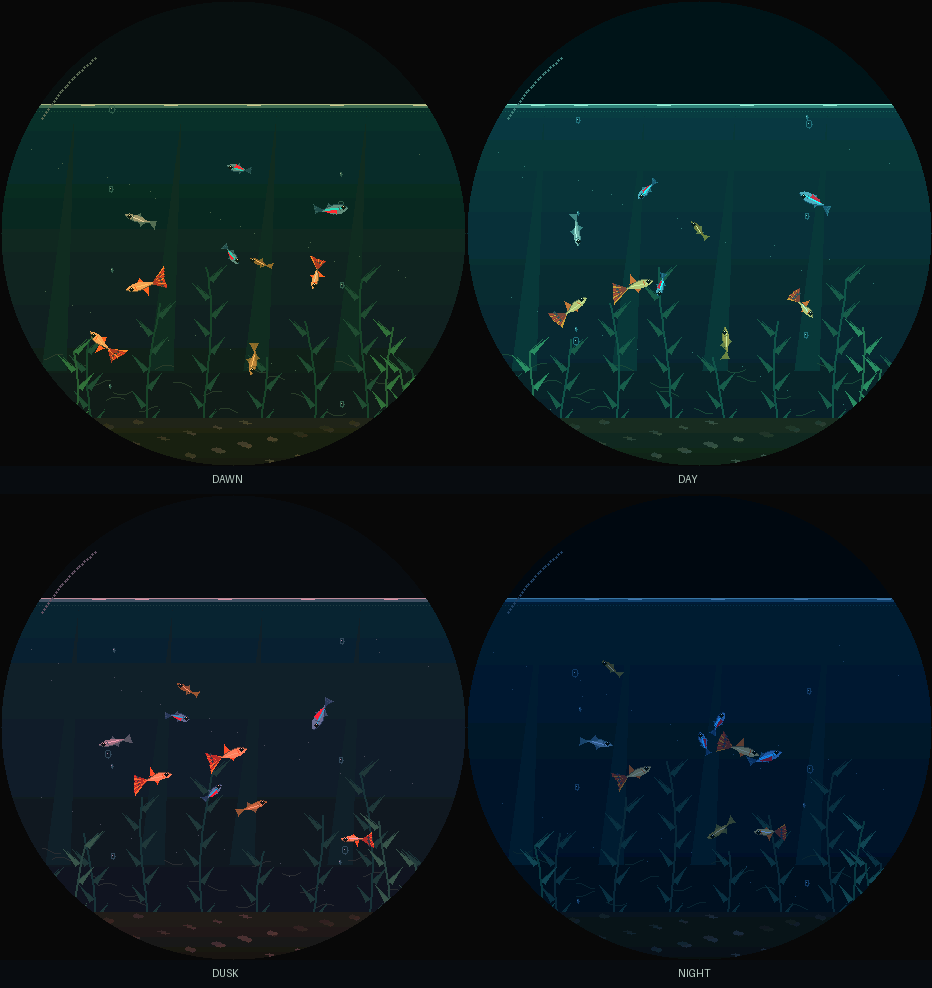
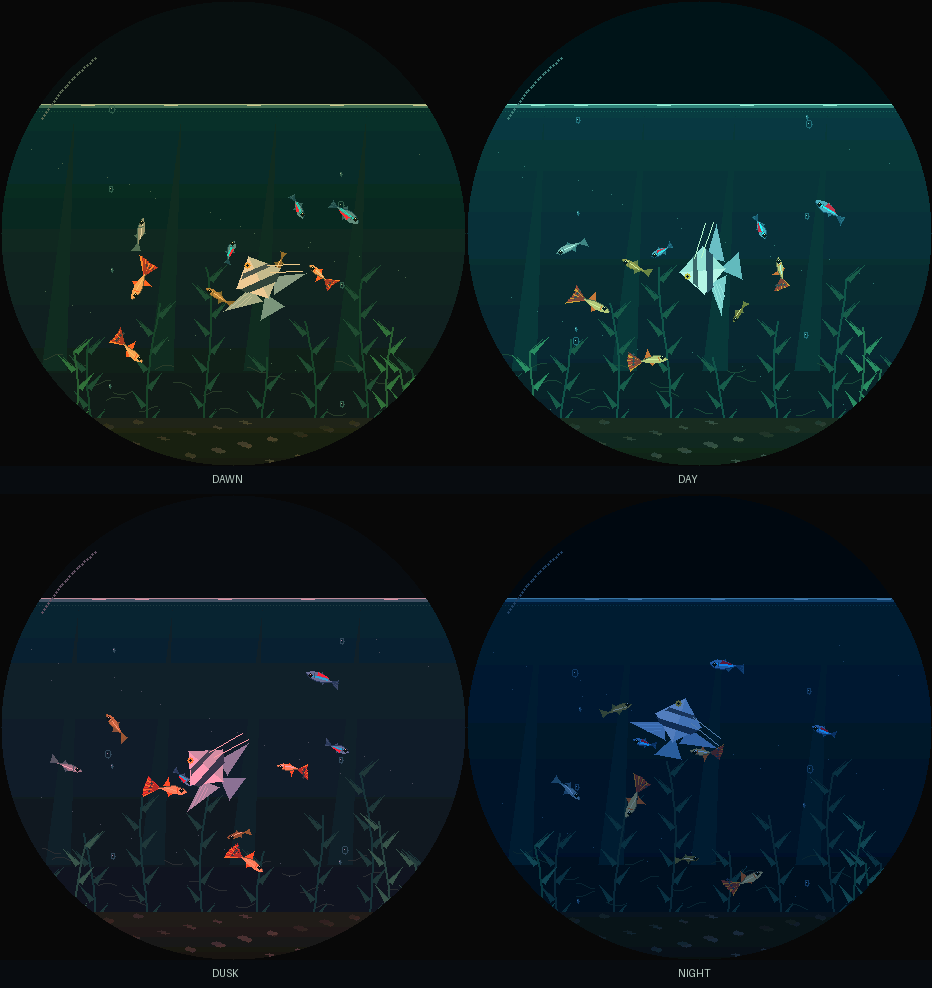
Add one larger angelfish as an aquarium centerpiece

diff --git a/src/World.h b/src/World.h
@@ -6,11 +6,12 @@
 namespace aquarium {
 constexpr float kPi = 3.14159265359f;
 inline float clamp(float v, float lo, float hi) { return std::max(lo, std::min(v, hi)); }
-enum class Species : uint8_t { Medaka, NeonTetra, Guppy };
+enum class Species : uint8_t { Medaka, NeonTetra, Guppy, Angelfish };
 struct SwimStyle { float cruise, turn, cadence; };
 inline SwimStyle swimStyle(Species s) {
   switch(s) {
     case Species::NeonTetra: return {49,3.2f,1.25f};
+    case Species::Angelfish: return {25,1.3f,.55f};
     case Species::Guppy: return {34,1.9f,.72f};
     default: return {42,2.5f,1};
   }
@@ -20,7 +21,7 @@ struct Bubble { float x=0, y=0, radius=2, pop=0; };
 struct Food { float x=0, y=0, life=0; bool wet=false; };
 class World {
 public:
-  static constexpr int N = 65, COUNT = 9, FOOD_MAX = 24;
+  static constexpr int N = 65, COUNT = 10, FOOD_MAX = 24;
   float wave[N]{}, velocity[N]{}, time = 0, tilt = 0, current = 0, alarm = 0;
   float gx = 0, gy = 1, gz = 0, activity = 0;
   float rollRate=0, pitchRate=0, yawRate=0, rotationalKick=0;
@@ -41,7 +42,7 @@ public:
     for(int c=0;c<3;++c) tint[c]=colors[a][c]*(1-t)+colors[b][c]*t;
   }
   unsigned eaten=0;
-  unsigned eatenBySpecies[3]{};
+  unsigned eatenBySpecies[4]{};
   float feedCooldown=0;
   int foodCount() const { int n=0; for(const auto &p:food) if(p.life>0) ++n; return n; }
   void feed(float x) {
@@ -59,11 +60,13 @@ public:
     for(int i=0;i<8;++i) { bubbles[i].x=i%2?342:112;bubbles[i].y=155+i*32;bubbles[i].radius=1+i%3; }
     int index=0;
     for (auto &f : fish) {
-      f.species=static_cast<Species>(index++%3);
+      f.species=index==9?Species::Angelfish:static_cast<Species>(index%3);
+      ++index;
       f.roamTime=index*.43f;
       f.x = 90 + random()*280; f.y = 155 + random()*210;
       f.heading = random()*2*kPi; f.vx = std::cos(f.heading)*20; f.vy = std::sin(f.heading)*8;
       f.phase = random()*2*kPi; f.depth = .6f + random()*.4f; f.urge = random();
+      if(f.species==Species::Angelfish) { f.x=270;f.y=290;f.depth=1;f.heading=.12f;f.vx=12;f.vy=0; }
     }
   }
   float surface(float x) const {
@@ -167,7 +170,8 @@ public:
       f.bite=std::max(0.f,f.bite-dt);
       int targetFood=-1; float nearest=1e9f;
       for(int j=0;j<FOOD_MAX;++j) if(food[j].life>0 && food[j].wet) {
-        float dx=food[j].x-f.x,dy=food[j].y-f.y,d2=dx*dx+dy*dy;
+        float mouthY=f.y-(f.species==Species::Angelfish?28.f:0.f);
+        float dx=food[j].x-f.x,dy=food[j].y-mouthY,d2=dx*dx+dy*dy;
         if(d2<nearest) { nearest=d2; targetFood=j; }
       }
       bool feeding=targetFood>=0;
@@ -175,9 +179,10 @@ public:
         auto &p=food[targetFood]; float d=std::sqrt(nearest);
         if(d<17 && f.bite<=0) { p.life=0; ++eaten; ++eatenBySpecies[static_cast<int>(f.species)]; f.bite=.65f; }
         else {
-          float desired=std::min(68.f,d*2.4f);
+          float targetY=p.y+(f.species==Species::Angelfish?28.f:0.f);
+          float desired=std::min(f.species==Species::Angelfish?46.f:68.f,d*2.4f);
           fx+=((p.x-f.x)/std::max(1.f,d)*desired-f.vx)*2.8f;
-          fy+=((p.y-f.y)/std::max(1.f,d)*desired-f.vy)*2.8f;
+          fy+=((targetY-f.y)/std::max(1.f,d)*desired-f.vy)*2.8f;
         }
       }
       if(!feeding) {
@@ -202,10 +207,11 @@ public:
       if(speed>2) { float delta=std::atan2(f.vy,f.vx)-f.heading; delta=std::atan2(std::sin(delta),std::cos(delta)); f.heading+=clamp(delta,-dt*style.turn,dt*style.turn); }
       f.x+=f.vx*dt; f.y+=f.vy*dt;
       float dx=f.x-233,dy=f.y-233,d=std::sqrt(dx*dx+dy*dy);
-      if(d>199) { f.x=233+dx*199/d; f.y=233+dy*199/d; }
-      f.x=clamp(f.x,45,421);
-      float edge=std::sqrt(199*199-(f.x-233)*(f.x-233));
-      f.y=clamp(f.y,std::max(surface(f.x)+20,233-edge),std::min(413.f,233+edge));
+      float boundary=f.species==Species::Angelfish?172.f:199.f;
+      if(d>boundary) { f.x=233+dx*boundary/d; f.y=233+dy*boundary/d; }
+      f.x=clamp(f.x,233-boundary+11,233+boundary-11);
+      float edge=std::sqrt(boundary*boundary-(f.x-233)*(f.x-233));
+      f.y=clamp(f.y,std::max(surface(f.x)+(f.species==Species::Angelfish?48:20),233-edge),std::min(413.f,233+edge));
       f.phase+=dt*(6+speed*.18f+burst*5)*style.cadence;
     }
   }

diff --git a/src/Scene.h b/src/Scene.h
@@ -26,6 +26,30 @@ void drawFish(const Fish &f,int index) {
   auto tri=[&](float ax,float ay,float bx,float by,float cx,float cy,uint16_t c) {
     auto a=point(ax,ay),b=point(bx,by),d=point(cx,cy); frame.fillTriangle(a.first,a.second,b.first,b.second,d.first,d.second,c);
   };
+  if(f.species==Species::Angelfish) {
+    // Tall silver silhouette with trailing fins, rendered in local fish coordinates.
+    float sway=std::sin(f.phase)*4;
+    tri(-17,0,-39,-13+sway,-37,14+sway,color(114,165,171));
+    tri(-6,-13,-15,-46,-23,-7,color(145,186,188));
+    tri(-5,13,-17,45,-22,7,color(126,171,178));
+    tri(23,0,0,-24,-23,0,color(209,221,208));
+    tri(23,0,-23,0,-1,24,color(178,203,196));
+    tri(-9,-17,-3,-22,-4,22,color(48,78,88));
+    tri(-9,-17,-4,22,-11,15,color(48,78,88));
+    tri(6,-16,10,-12,9,14,color(66,94,100));
+    tri(6,-16,9,14,5,18,color(66,94,100));
+    for(int j=0;j<3;++j) {
+      auto a=point(-9-j*3,-15),b=point(-15-j*2,-39+j*6);
+      frame.drawLine(a.first,a.second,b.first,b.second,color(175,205,202));
+    }
+    for(int j=0;j<2;++j) {
+      auto a=point(7-j*7,13),b=point(-6-j*8,46+sway);
+      frame.drawLine(a.first,a.second,b.first,b.second,color(210,221,189));
+    }
+    auto eye=point(16,-5);frame.fillCircle(eye.first,eye.second,3,color(221,177,71));
+    frame.fillCircle(eye.first,eye.second,1,color(12,29,37));
+    return;
+  }
   bool gold=index%2==0;
   uint16_t fin=gold?color(119,115,66):color(72,119,117);
   uint16_t body=gold?color(206*sc,174*sc,94*sc):color(162*sc,192*sc,180*sc);

diff --git a/test/physics.cpp b/test/physics.cpp
@@ -4,8 +4,8 @@
 using namespace aquarium;
 int main() {
   World w;
-  int population[3]{};for(auto &f:w.fish)++population[static_cast<int>(f.species)];
-  for(int n:population)assert(n==3);
+  int population[4]{};for(auto &f:w.fish)++population[static_cast<int>(f.species)];
+  for(int i=0;i<3;++i)assert(population[i]==3);assert(population[3]==1);
   constexpr float dt=1.f/120;
   // Ten minutes: alternating violent shaking and rest, plus repeated taps.
   for(int n=0;n<72000;++n) {
@@ -48,7 +48,7 @@ int main() {
     for(int n=0;n<1800;++n) fed.step(dt);
     assert(fed.foodCount()==0);
   }
-  for(auto species : {Species::Medaka,Species::NeonTetra,Species::Guppy}) {
+  for(auto species : {Species::Medaka,Species::NeonTetra,Species::Guppy,Species::Angelfish}) {
     World single;
     for(auto &f:single.fish) f.species=species;
     single.feed(233);
@@ -66,7 +66,7 @@ int main() {
       ++samples;
     }
   }
-  float meanDistance=spread/(samples*36);
+  float meanDistance=spread/(samples*(World::COUNT*(World::COUNT-1)/2));
   std::printf("Independent swimming: mean pair distance %.1f px\n",meanDistance);
   assert(meanDistance>110);
   World ambience;

diff --git a/README.md b/README.md
@@ -2,7 +2,7 @@
 
 # Medaka — 手のひらの水槽
 
-M5Stack StopWatch C152を、メダカ・ネオンテトラ・グッピーが各3匹、合計9匹泳ぐ小さな水槽にする観賞用アプリです。加速度と3軸ジャイロを使い、本体を揺らす・ひねる動きに水面と水草が反応します。
+M5Stack StopWatch C152を、メダカ・ネオンテトラ・グッピーが各3匹と、大きなエンゼルフィッシュ1匹、合計10匹が泳ぐ小さな水槽にする観賞用アプリです。加速度と3軸ジャイロを使い、本体を揺らす・ひねる動きに水面と水草が反応します。
 
 ![水槽アプリのプレビュー](docs/preview.png)
 
@@ -48,8 +48,9 @@ M5Stack StopWatch C152を、メダカ・ネオンテトラ・グッピーが各3
 | メダカ × 3 | 細い銀色・金色の体。加速と滑走を繰り返す |
 | ネオンテトラ × 3 | 青いラインと赤い体色。1匹ずつ別の行き先へ軽快に泳ぐ |
 | グッピー × 3 | 模様入りの大きなオレンジ色の尾びれ。ゆっくり振って泳ぐ |
+| エンゼルフィッシュ × 1 | 大きな銀色の体と縞模様、長いひれ。ゆったり泳ぐ水槽の主役 |
 
-3種類ともボタンで投入したエサに集まります。魚の特徴を表現した観賞用の演出です。
+4種類ともボタンで投入したエサに集まります。魚の特徴を表現した観賞用の演出です。
 
 ## 操作
 
@@ -67,9 +68,9 @@ M5Stack StopWatch C152を、メダカ・ネオンテトラ・グッピーが各3
 
 ## エサやり
 
-エサは水面からゆっくり沈み、3種類の魚が近くの粒に集まって食べます。食べ終わると通常の遊泳に戻ります。1回6粒、同時に最大24粒まで。投入間隔は最低0.35秒で、食べ残しは24秒で消えます。長押しで明るさを変えた場合はエサを投入しません。
+エサは水面からゆっくり沈み、4種類の魚が近くの粒に集まって食べます。食べ終わると通常の遊泳に戻ります。1回6粒、同時に最大24粒まで。投入間隔は最低0.35秒で、食べ残しは24秒で消えます。長押しで明るさを変えた場合はエサを投入しません。
 
-![3種類の魚がエサに集まるプレビュー](docs/feeding.gif)
+![4種類の魚がエサに集まるプレビュー](docs/feeding.gif)
 
 *実機と共通コードによるシミュレーションです。実機の録画ではありません。*
 
@@ -102,7 +103,7 @@ c++ -std=c++17 -O2 test/preview.cpp -o /tmp/medaka-preview
 
 - 光の一巡・固定・再開と、気泡が水面で消えて再び上がる繰り返し。
 
-- 各魚種だけの水槽でも6粒すべてを15秒以内に消費。3種類混泳での10分相当の耐久テストも通過。
+- 各魚種だけの水槽でも6粒すべてを15秒以内に消費。4種類混泳での10分相当の耐久テストも通過。
 - 左右の投入テストで6粒すべてを15秒以内に消費。連打制限・粒数上限・食べ残しの消滅も確認。
 
 - C152向けのビルド、USB書き込み、転送データのハッシュ照合。

diff --git a/README.en.md b/README.en.md
@@ -2,7 +2,7 @@
 
 # Medaka — A palm-sized aquarium
 
-A quiet aquarium with three medaka, three neon tetras and three guppies for M5Stack StopWatch C152. Accelerometer and three-axis gyroscope input make the water and plants respond to shaking and twisting the device.
+A quiet aquarium with three medaka, three neon tetras, three guppies and one larger angelfish for M5Stack StopWatch C152. Accelerometer and three-axis gyroscope input make the water and plants respond to shaking and twisting the device.
 
 ![Aquarium preview](docs/preview.png)
 
@@ -48,8 +48,9 @@ Small bubbles rise between the plants and pop at the surface, while highlights t
 | Medaka × 3 | Slender silver or gold bodies with burst-and-glide swimming |
 | Neon tetra × 3 | Bright blue stripes and red accents; quicker movement toward individual destinations |
 | Guppy × 3 | Broad patterned orange fan tails with slower tail beats |
+| Angelfish × 1 | A larger silver striped body, long fins and unhurried swimming |
 
-All species respond to food. These are stylized behaviors for the viewing experience.
+All four species respond to food. These are stylized behaviors for the viewing experience.
 
 ## Controls
 
@@ -67,9 +68,9 @@ Settings are not persisted: restarting returns to normal viewing with automatic 
 
 ## Feeding
 
-Pellets fall into the water and slowly sink. All three species gather around nearby pellets, eat them, then return to normal swimming. Each click adds six pellets, with a maximum of 24 active pellets and a minimum 0.35-second interval. Uneaten pellets disappear after 24 seconds. Holding yellow A changes brightness without adding food.
+Pellets fall into the water and slowly sink. All four species gather around nearby pellets, eat them, then return to normal swimming. Each click adds six pellets, with a maximum of 24 active pellets and a minimum 0.35-second interval. Uneaten pellets disappear after 24 seconds. Holding yellow A changes brightness without adding food.
 
-![Three species gathering around food](docs/feeding.gif)
+![Four species gathering around food](docs/feeding.gif)
 
 *Simulation using shared firmware code, not a recording of the device.*
 
